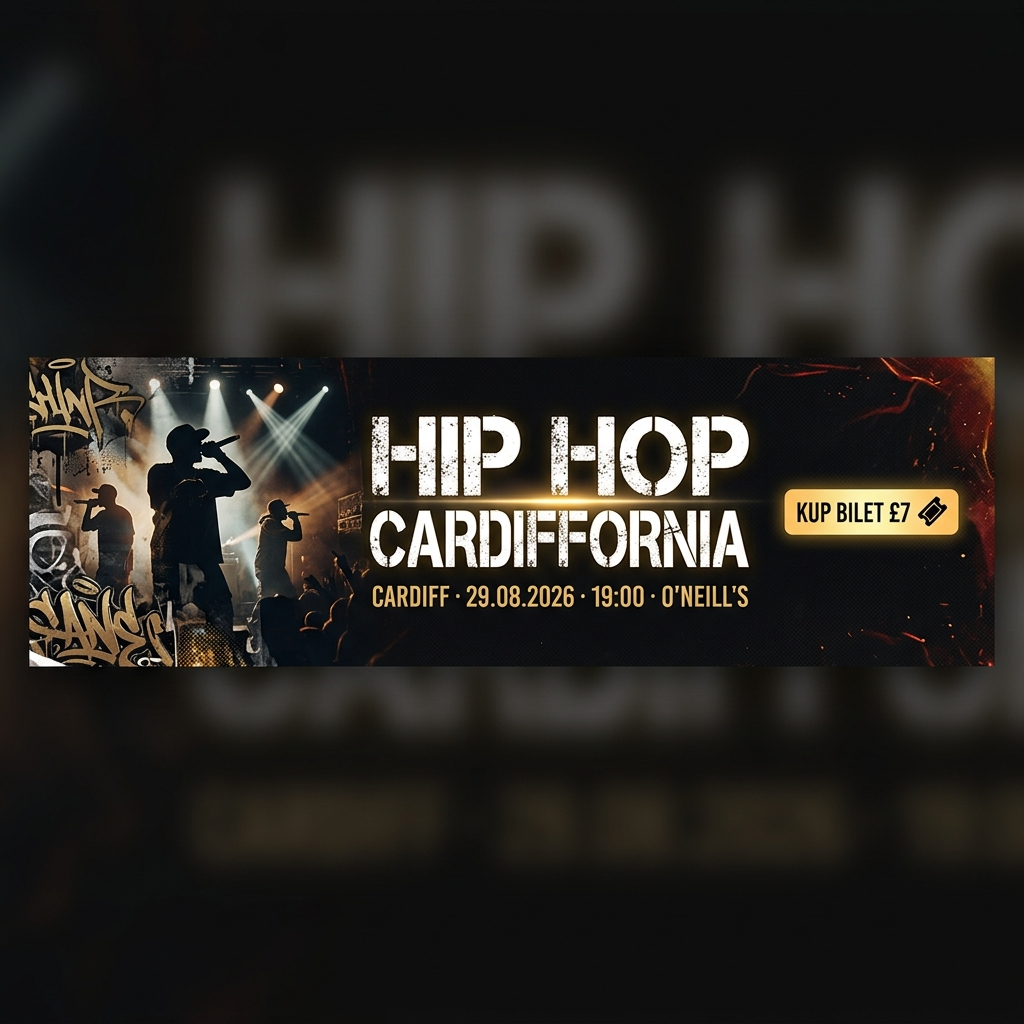
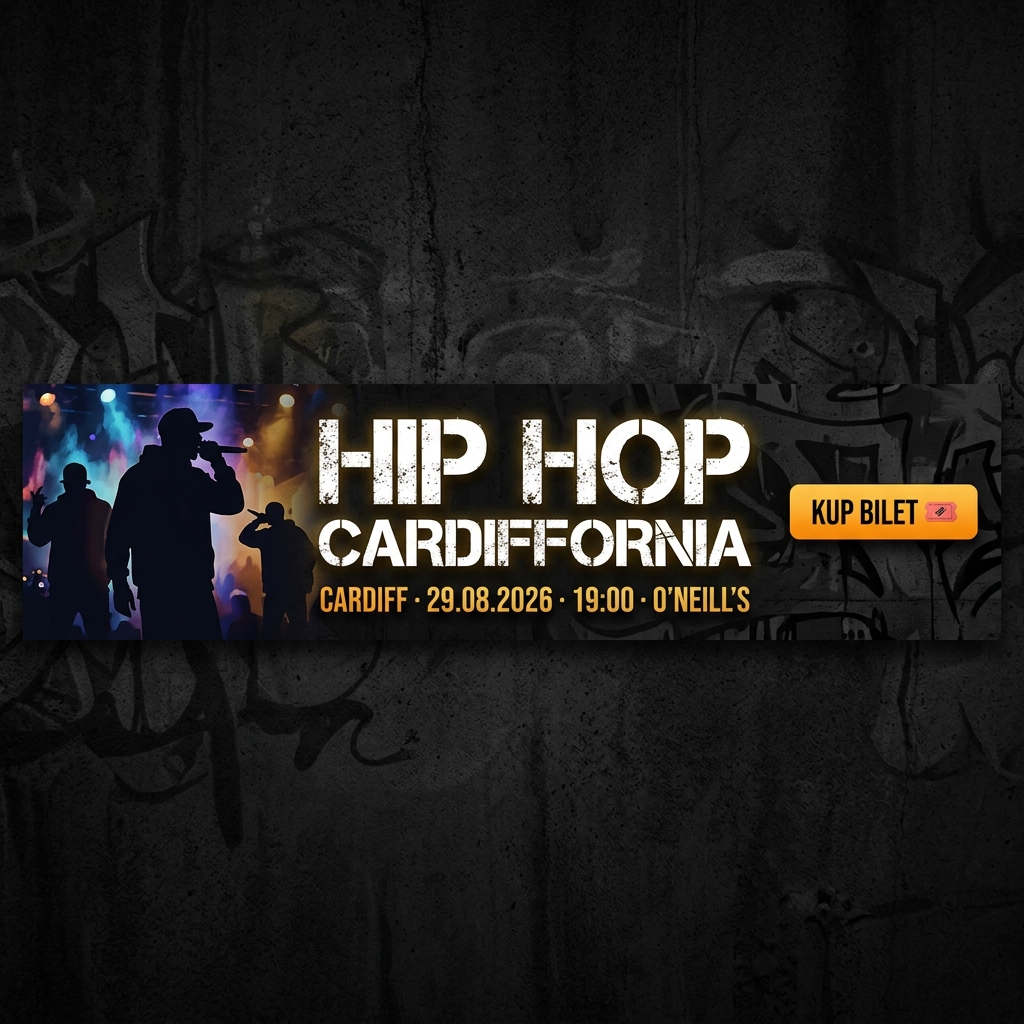
Baner Cardiffornia: usunięto cenę, naprawiono obcinanie tekstu

diff --git a/src/components/PromoWidget.tsx b/src/components/PromoWidget.tsx
@@ -305,10 +305,10 @@ export async function PromoWidget({ position = 'homepage_bottom' }: PromoWidgetP
                     alt="Polecane"
                     style={{
                         width: '100%',
-                        height: '100%',
-                        minHeight: isTop ? '180px' : '90px',
-                        maxHeight: isTop ? '180px' : '120px',
-                        objectFit: 'cover',
+                        height: isTop ? '100%' : 'auto',
+                        minHeight: isTop ? '180px' : undefined,
+                        maxHeight: isTop ? '180px' : undefined,
+                        objectFit: isTop ? 'cover' : 'contain',
                         display: 'block',
                     }}
                 />
